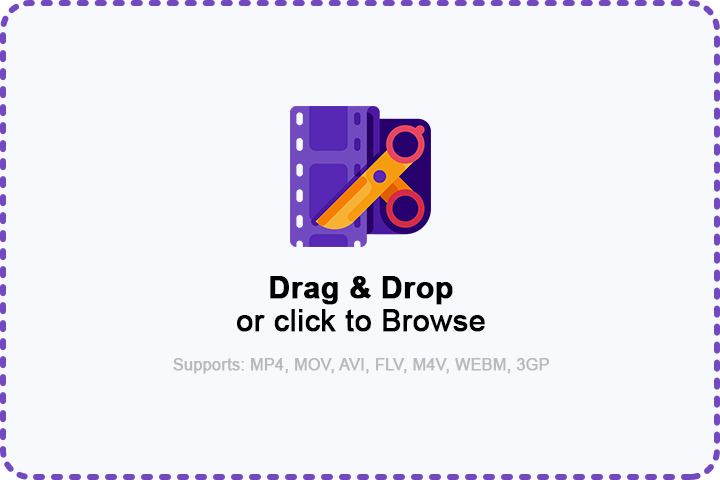
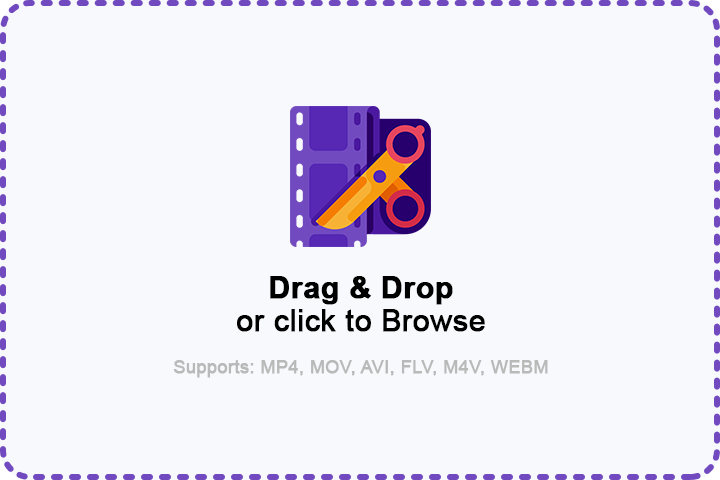
Output format codec and help messages

Changed region(s): [[0.2444, 0.75, 0.7639, 0.7812]]

diff --git a/src/main/java/com/dashroshan/Controller.java b/src/main/java/com/dashroshan/Controller.java
@@ -5,9 +5,12 @@ import java.io.IOException;
 import java.util.concurrent.TimeUnit;
 
 import javafx.application.Platform;
+import javafx.event.ActionEvent;
 import javafx.fxml.FXML;
+import javafx.scene.Cursor;
 import javafx.scene.control.Alert;
 import javafx.scene.control.Alert.AlertType;
+import javafx.scene.control.ButtonType;
 import javafx.scene.control.ComboBox;
 import javafx.scene.control.Label;
 import javafx.scene.control.ProgressBar;
@@ -18,7 +21,9 @@ import javafx.scene.image.ImageView;
 import javafx.scene.input.DragEvent;
 import javafx.scene.input.Dragboard;
 import javafx.scene.input.TransferMode;
+import javafx.scene.layout.Region;
 import javafx.stage.FileChooser;
+import javafx.stage.Stage;
 import net.bramp.ffmpeg.FFmpeg;
 import net.bramp.ffmpeg.FFmpegExecutor;
 import net.bramp.ffmpeg.FFprobe;
@@ -32,9 +37,14 @@ import net.bramp.ffmpeg.progress.ProgressListener;
 
 public class Controller {
     private String inputFilePath = "";
+    private double originalRatio;
+    private int originalHeight, originalWidth;
 
     @FXML
     private ComboBox<String> outputFormat;
+
+    @FXML
+    private ComboBox<String> resolutionRatio;
 
     @FXML
     private ProgressBar progressBar;
@@ -88,7 +98,24 @@ public class Controller {
     private TextField outputDurationEndS;
 
     @FXML
-    private TextField outputBitrate;
+    private ImageView saveButton;
+
+    private void switchControls(boolean disabled) {
+        outputResolutionHeight.setDisable(disabled);
+        outputResolutionWidth.setDisable(disabled);
+        outputQuality.setDisable(disabled);
+        outputDurationStartH.setDisable(disabled);
+        outputDurationStartM.setDisable(disabled);
+        outputDurationStartS.setDisable(disabled);
+        outputDurationEndH.setDisable(disabled);
+        outputDurationEndM.setDisable(disabled);
+        outputDurationEndS.setDisable(disabled);
+        outputFormat.setDisable(disabled);
+        resolutionRatio.setDisable(disabled);
+        saveButton.setDisable(disabled);
+        saveButton.setOpacity(disabled ? 0.5 : 1);
+        saveButton.setCursor(disabled ? Cursor.DEFAULT : Cursor.HAND);
+    }
 
     private void setThumbnailAndInfo() throws IOException {
         FFprobe ffprobe = new FFprobe("ffprobe.exe");
@@ -103,9 +130,11 @@ public class Controller {
         inputCodec.setText(stream.codec_name.toUpperCase() + " Codec");
         inputDuration.setText(String.format("%.2fs", format.duration));
         inputResolution.setText(String.format("%d x %dpx", stream.width, stream.height));
+        originalRatio = (double) stream.width / (double) stream.height;
+        originalHeight = stream.height;
+        originalWidth = stream.width;
         outputResolutionWidth.setText(Integer.toString(stream.width));
         outputResolutionHeight.setText(Integer.toString(stream.height));
-        outputBitrate.setText(Long.toString(stream.bit_rate));
         outputDurationStartH.setText("0");
         outputDurationStartM.setText("0");
         outputDurationStartS.setText("0");
@@ -119,6 +148,7 @@ public class Controller {
         outputDurationEndS.setText(Integer.toString(sec));
         outputFormat.getSelectionModel()
                 .select(inputFilePath.substring(inputFilePath.lastIndexOf('.') + 1).toUpperCase());
+        resolutionRatio.getSelectionModel().select("Variable");
 
         String outputFilePath = inputFilePath.substring(0, inputFilePath.lastIndexOf('\\'));
 
@@ -132,26 +162,56 @@ public class Controller {
         Image fxImage = new Image(thumbImg.toURI().toString());
         videoThumbnail.setImage(fxImage);
         thumbImg.delete();
+
+        switchControls(false);
     }
 
     @FXML
     protected void convertAndSave() throws IOException {
+        // Create a file chooser window for the user to select output file name and
+        // location
         FileChooser file_chooser = new FileChooser();
+
+        // Set the video format from Output format selection box in the file chooser
         String format = outputFormat.getValue().toLowerCase();
         file_chooser.getExtensionFilters().addAll(
                 new FileChooser.ExtensionFilter(
                         "Video file", "*." + format));
-
         File file = file_chooser.showSaveDialog(videoThumbnail.getScene().getWindow());
 
-        if (file == null || !Utility.isValidVideoFile(file.getName())) {
-            Alert alert = new Alert(AlertType.ERROR);
-            alert.setHeaderText("Unsupported format");
-            alert.setContentText(
-                    "You were trying to save your video file in a format not supported by FrameFusion. Please select one of the following: MP4, MOV, AVI, FLV, M4V, WEBM, 3GP");
-            alert.show();
+        // If user cancels the file chooser window stop the process here
+        if (file == null)
             return;
+
+        switchControls(true);
+
+        String ratio = resolutionRatio.getValue();
+        int opHeight, opWidth;
+        if (ratio == "Fixed height") {
+            opWidth = Integer.parseInt(outputResolutionWidth.getText());
+            opHeight = (int) (opWidth / originalRatio);
+        } else if (ratio == "Fixed width") {
+            opHeight = Integer.parseInt(outputResolutionHeight.getText());
+            opWidth = (int) (opHeight * originalRatio);
+        } else {
+            opWidth = Integer.parseInt(outputResolutionWidth.getText());
+            opHeight = Integer.parseInt(outputResolutionHeight.getText());
         }
+
+        if (opWidth % 2 == 1)
+            opWidth++;
+        if (opHeight % 2 == 1)
+            opHeight++;
+
+        double opQuality = outputQuality.getValue() / 100.0;
+        long startH = Long.parseLong(outputDurationStartH.getText());
+        long startM = Long.parseLong(outputDurationStartM.getText());
+        long startS = Long.parseLong(outputDurationStartS.getText());
+        long start = startH * 3600 + startM * 60 + startS;
+        long endH = Long.parseLong(outputDurationEndH.getText());
+        long endM = Long.parseLong(outputDurationEndM.getText());
+        long endS = Long.parseLong(outputDurationEndS.getText());
+        long end = endH * 3600 + endM * 60 + endS;
 
         String outputFilePath = file.getAbsolutePath();
 
@@ -164,20 +224,26 @@ public class Controller {
         FFmpegBuilder builder = new FFmpegBuilder()
                 .setInput(in)
                 .addOutput(outputFilePath)
-                .setVideoQuality(0.5)
+                .setFormat(format)
+                .setVideoQuality(opQuality)
+                .setVideoHeight(opHeight)
+                .setVideoWidth(opWidth)
+                .setStartOffset(start, TimeUnit.SECONDS)
+                .setDuration(end - start, TimeUnit.SECONDS)
                 .done();
 
         FFmpegJob job = executor.createJob(builder, new ProgressListener() {
-            final double inputDuration_ns = in.getFormat().duration * TimeUnit.SECONDS.toNanos(1);
+            final double inputDuration_ns = (end - start) * TimeUnit.SECONDS.toNanos(1);
 
             @Override
             public void progress(Progress progress) {
                 Platform.runLater(new Runnable() {
                     @Override
                     public void run() {
-                        if (progress.status.toString().equals("end"))
+                        if (progress.status.toString().equals("end")) {
                             progressBar.setProgress(0);
-                        else
+                            switchControls(false);
+                        } else
                             progressBar.setProgress(progress.out_time_ns / inputDuration_ns);
                     }
                 });
@@ -229,10 +295,76 @@ public class Controller {
         }
     }
 
+    @FXML
+    protected void ratioChanged(ActionEvent action) {
+        String ratio = resolutionRatio.getValue();
+        if (ratio == "Fixed height") {
+            outputResolutionHeight.setText("");
+            outputResolutionWidth.setText(Integer.toString(originalWidth));
+            outputResolutionHeight.setDisable(true);
+            outputResolutionWidth.setDisable(false);
+        } else if (ratio == "Fixed width") {
+            outputResolutionWidth.setText("");
+            outputResolutionHeight.setText(Integer.toString(originalHeight));
+            outputResolutionHeight.setDisable(false);
+            outputResolutionWidth.setDisable(true);
+        } else {
+            outputResolutionWidth.setText(Integer.toString(originalWidth));
+            outputResolutionHeight.setText(Integer.toString(originalHeight));
+            outputResolutionHeight.setDisable(false);
+            outputResolutionWidth.setDisable(false);
+        }
+    }
+
+    private void showHelp(String title) {
+        Alert alert = new Alert(AlertType.NONE, Info.messages.get(title), ButtonType.OK);
+        alert.getDialogPane().setMinHeight(Region.USE_PREF_SIZE);
+
+        Stage stage = (Stage) alert.getDialogPane().getScene().getWindow();
+        Image favicon = new Image(App.class.getResource("icon.png").toExternalForm());
+        stage.getIcons().add(favicon);
+
+        alert.setTitle(title);
+        alert.show();
+    }
+
+    @FXML
+    protected void helpResolution() {
+        showHelp("Resolution");
+    }
+
+    @FXML
+    protected void helpQuality() {
+        showHelp("Quality");
+    }
+
+    @FXML
+    protected void helpDuration() {
+        showHelp("Duration");
+    }
+
+    @FXML
+    protected void helpFormat() {
+        showHelp("Format");
+    }
+
+    @FXML
+    protected void helpRatio() {
+        showHelp("Ratio");
+    }
+
+    // Runs once at start
     public void initialize() {
+        // Disable all output setting controls
+        switchControls(true);
+
+        // Link quality percentage label text with the slider
         outputQuality.valueProperty().addListener((observable, oldValue, newValue) -> {
             outputQualityPercentage.setText(Integer.toString(newValue.intValue()) + "%");
         });
+
+        // Add supported video formats in the Output format selection box
         outputFormat.getItems().addAll(Utility.extensions);
+        resolutionRatio.getItems().addAll("Fixed height", "Fixed width", "Variable");
     }
 }

diff --git a/src/main/java/com/dashroshan/Utility.java b/src/main/java/com/dashroshan/Utility.java
@@ -4,17 +4,27 @@ import java.util.Arrays;
 import java.util.HashSet;
 
 public class Utility {
-    public static String[] extensions = new String[] { "MP4", "MOV", "AVI", "FLV", "M4V", "WEBM", "3GP" };
-    public static String[] extensionsPattern;
+    // Supported video formats
+    public static String[] extensions = new String[] { "MP4", "MOV", "AVI", "FLV", "M4V", "WEBM" };
+    public static String commaSeparatedExtensions = "";
 
+    public static String[] extensionsPattern;
     public static HashSet<String> allowedExtensions = new HashSet<>(Arrays.asList(extensions));
 
+    // Convert all extensions from "XYZ" to "*.xyz" for use with JavaFX filechooser
     static {
         extensionsPattern = new String[extensions.length];
-        for (int i = 0; i < extensions.length; i++)
+        for (int i = 0; i < extensions.length; i++) {
             extensionsPattern[i] = "*." + extensions[i].toLowerCase();
+            commaSeparatedExtensions += extensions[i];
+            if (i == extensions.length - 2)
+                commaSeparatedExtensions += ", and ";
+            else if (i != extensions.length - 1)
+                commaSeparatedExtensions += ", ";
+        }
     }
 
+    // Checks if a file is in a supported video format
     public static boolean isValidVideoFile(String fileName) {
         String extension = "";
         int i = fileName.lastIndexOf('.');

diff --git a/src/main/java/com/dashroshan/Info.java b/src/main/java/com/dashroshan/Info.java
@@ -1,0 +1,20 @@
+package com.dashroshan;
+
+import java.util.HashMap;
+
+public class Info {
+    public static HashMap<String, String> messages = new HashMap<>();
+
+    static {
+        messages.put("Resolution",
+                "Use this to set the output video resolution as Width x Height in pixels. To maintain a constant ratio and just change one parameter, set the desired Ratio option.");
+        messages.put("Quality",
+                "Use the slider to set the output video quality to reduce the file size. Decreasing it too much might bring very noticable blurring and blocky artefacts to your video.");
+        messages.put("Duration",
+                "Use this to trim your video starting and ending time. The first set of inputs are Hours Minutes Seconds for the start and the second set of inputs are for the end time.");
+        messages.put("Format", "Use this to select the output format for your video amongst the available options: "
+                + Utility.commaSeparatedExtensions + ".");
+        messages.put("Ratio",
+                "Use this to constraint the output resolution. Variable allows you to change both width and height as needed. Fixed height or width, allows you to keep one parameter fixed and change the other maintaing the original video resolution ratio.");
+    }
+}
